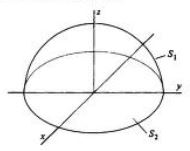
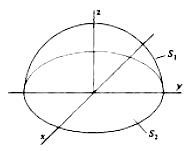
Fixed some minor issues with format for Problem Set 3

diff --git a/Problem Set 3/phys51m pset 3.tex b/Problem Set 3/phys51m pset 3.tex
@@ -35,7 +35,7 @@
 	\begin{problem}[Schey II-8] 
 		An electrostatic force field is given by $\vec{E} = \lambda (\vec{\textbf{i}}yz + \vec{\textbf{j}}xz + \vec{\textbf{k}}xy)$, where $\lambda$ is a constant. Use Gauss' law to find the total charge enclosed by the surface shown in the figure consisting of $S_1$, the hemisphere $z = (R^2 - x^2 - y^2)^{\frac{1}{2}}$, and $S_2$, its circular base in the $xy$-plane.
 		\begin{center}
-			\includegraphics[scale=0.9]{51m3pic2.jpg}
+			\includegraphics[scale=0.8]{51m3pic2.jpg}
 		\end{center}
 		
 	\end{problem}
